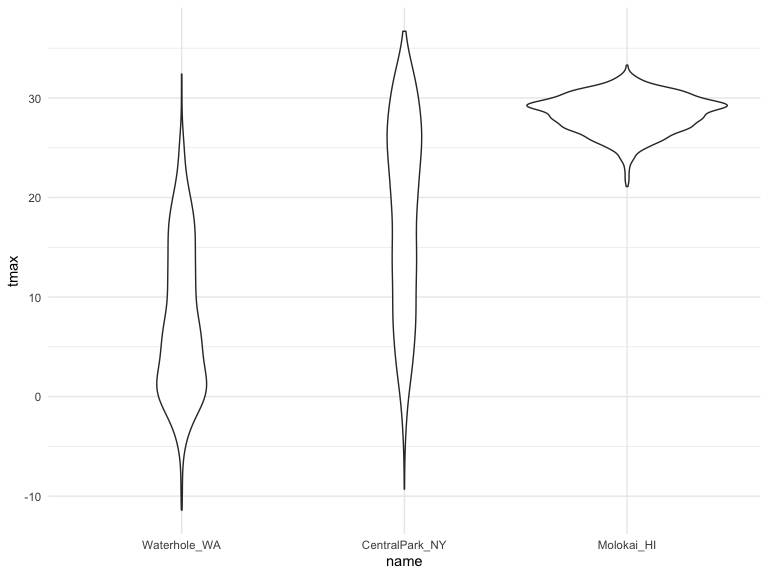
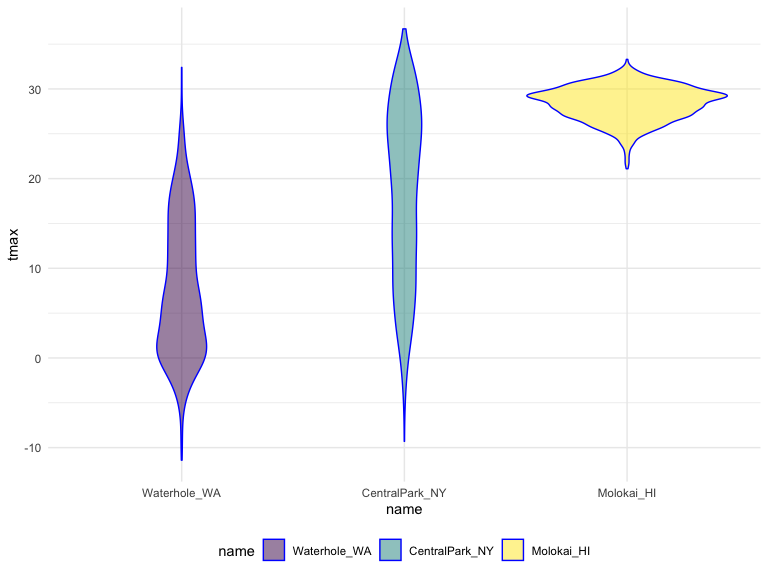
restaurant inspection data

diff --git a/strings-and-factors.md b/strings-and-factors.md
@@ -219,9 +219,179 @@ weather_df =
 weather_df %>% 
   mutate(name = fct_reorder(name, tmax)) %>% 
   ggplot(aes(x = name, y = tmax)) +
-  geom_violin()
+  geom_violin(aes(fill = name), color = "blue", alpha = .5) +
+  theme(legend.position = "bottom")
 ```
 
 <img src="strings-and-factors_files/figure-gfm/unnamed-chunk-13-1.png" width="90%" />
 
-## 
+``` r
+weather_df %>% 
+  mutate(name = fct_reorder(name, tmax)) %>% 
+  lm(tmax ~ name, data = .)
+```
+
+    ## 
+    ## Call:
+    ## lm(formula = tmax ~ name, data = .)
+    ## 
+    ## Coefficients:
+    ##        (Intercept)  nameCentralPark_NY      nameMolokai_HI  
+    ##              7.737              10.525              20.650
+
+``` r
+weather_df |>
+  mutate(name = forcats::fct_relevel(name, c("Molokai_HI", "CentralPark_NY", "Waterhole_WA"))) |>
+  lm(tmax ~ name, data = _)
+```
+
+    ## 
+    ## Call:
+    ## lm(formula = tmax ~ name, data = mutate(weather_df, name = forcats::fct_relevel(name, 
+    ##     c("Molokai_HI", "CentralPark_NY", "Waterhole_WA"))))
+    ## 
+    ## Coefficients:
+    ##        (Intercept)  nameCentralPark_NY    nameWaterhole_WA  
+    ##              28.39              -10.12              -20.65
+
+## restaurant inspections data
+
+``` r
+data("rest_inspec")
+
+rest_inspec %>% 
+  group_by(boro, grade) %>% 
+  summarise(n = n()) %>% 
+  pivot_wider(
+    names_from = grade,
+    values_from = n)
+```
+
+    ## `summarise()` has grouped output by 'boro'. You can override using the
+    ## `.groups` argument.
+
+    ## # A tibble: 6 × 8
+    ## # Groups:   boro [6]
+    ##   boro              A     B     C `Not Yet Graded`     P     Z  `NA`
+    ##   <chr>         <int> <int> <int>            <int> <int> <int> <int>
+    ## 1 BRONX         13688  2801   701              200   163   351 16833
+    ## 2 BROOKLYN      37449  6651  1684              702   416   977 51930
+    ## 3 MANHATTAN     61608 10532  2689              765   508  1237 80615
+    ## 4 Missing           4    NA    NA               NA    NA    NA    13
+    ## 5 QUEENS        35952  6492  1593              604   331   913 45816
+    ## 6 STATEN ISLAND  5215   933   207               85    47   149  6730
+
+removing inspection scores other than `A`, `B`, or `C`, and also
+removing restaurants with missing boro information & cleaning boro names
+
+``` r
+rest_inspec =
+  rest_inspec %>% 
+  filter(grade %in% c("A", "B", "C"), boro != "Missing") %>% 
+  mutate(boro = str_to_title(boro))
+```
+
+focusing only on pizza places for now and re-examine grades by borough
+
+``` r
+rest_inspec %>% 
+  filter(str_detect(dba, "Pizza")) %>% 
+  group_by(boro, grade) %>% 
+  summarise(n = n()) %>% 
+  pivot_wider(
+    names_from = grade,
+    values_from = n
+  )
+```
+
+    ## `summarise()` has grouped output by 'boro'. You can override using the
+    ## `.groups` argument.
+
+    ## # A tibble: 5 × 3
+    ## # Groups:   boro [5]
+    ##   boro              A     B
+    ##   <chr>         <int> <int>
+    ## 1 Bronx             9     3
+    ## 2 Brooklyn          6    NA
+    ## 3 Manhattan        26     8
+    ## 4 Queens           17    NA
+    ## 5 Staten Island     5    NA
+
+\*\* doesn’t look right since we know there’s more pizza place ratings
+that that – problem is that `str_detach` is case-sensitive
+
+``` r
+rest_inspec %>% 
+  filter(str_detect(dba, "[Pp][Ii][Zz][Zz][Aa]")) %>% 
+  group_by(boro, grade) %>% 
+  summarise(n = n()) %>% 
+  pivot_wider(
+    names_from = grade,
+    values_from = n
+  )
+```
+
+    ## `summarise()` has grouped output by 'boro'. You can override using the
+    ## `.groups` argument.
+
+    ## # A tibble: 5 × 4
+    ## # Groups:   boro [5]
+    ##   boro              A     B     C
+    ##   <chr>         <int> <int> <int>
+    ## 1 Bronx          1170   305    56
+    ## 2 Brooklyn       1948   296    61
+    ## 3 Manhattan      1983   420    76
+    ## 4 Queens         1647   259    48
+    ## 5 Staten Island   323   127    21
+
+visualize data
+
+``` r
+rest_inspec %>% 
+  filter(str_detect(dba, "[Pp][Ii][Zz][Zz][Aa]")) %>% 
+  ggplot(aes(x = boro, fill = grade)) + 
+  geom_bar()
+```
+
+<img src="strings-and-factors_files/figure-gfm/unnamed-chunk-20-1.png" width="90%" />
+reordering things based off number of pizza places??
+
+``` r
+rest_inspec %>% 
+  filter(str_detect(dba, "[Pp][Ii][Zz][Zz][Aa]")) %>% 
+  mutate(boro = fct_infreq(boro)) %>% 
+  ggplot(aes(x = boro, fill = grade)) +
+  geom_bar()
+```
+
+<img src="strings-and-factors_files/figure-gfm/unnamed-chunk-21-1.png" width="90%" />
+if i want to rename a borough, i can try using `str_replace`
+
+``` r
+rest_inspec %>% 
+  filter(str_detect(dba, "[Pp][Ii][Zz][Zz][Aa]")) %>% 
+  mutate(boro = fct_infreq(boro),
+         boro = str_replace(boro, "Manhattan", "The City")) %>% 
+  ggplot(aes(x = boro, fill = grade)) +
+  geom_bar()
+```
+
+<img src="strings-and-factors_files/figure-gfm/unnamed-chunk-22-1.png" width="90%" />
+\*\* this renamed the borough but converted the results back to a
+string, which when plotted, was implicitly made a factor and ordered
+alphabetically - using `replace` function wouldn’t fix this issue at all
+either since factors have very specific values – trying to use a value
+that is not an existing factor level won’t work
+
+the `fct_recode` function is specifically used to rename factor levels:
+
+``` r
+rest_inspec %>% 
+  filter(str_detect(dba, "[Pp][Ii][Zz][Zz][Aa]")) %>% 
+  mutate(boro = fct_infreq(boro),
+         boro = fct_recode(boro, "The City" = "Manhattan")) %>% 
+  ggplot(aes(x = boro, fill = grade)) +
+  geom_bar()
+```
+
+<img src="strings-and-factors_files/figure-gfm/unnamed-chunk-23-1.png" width="90%" />
